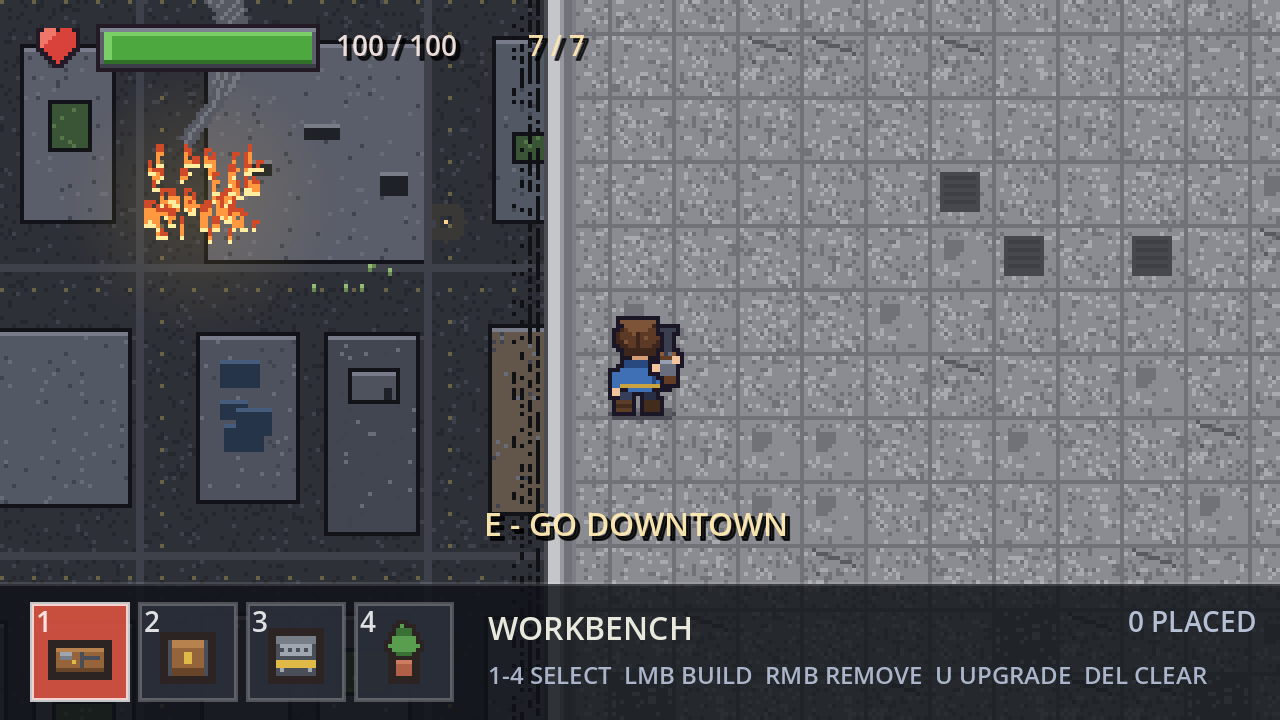
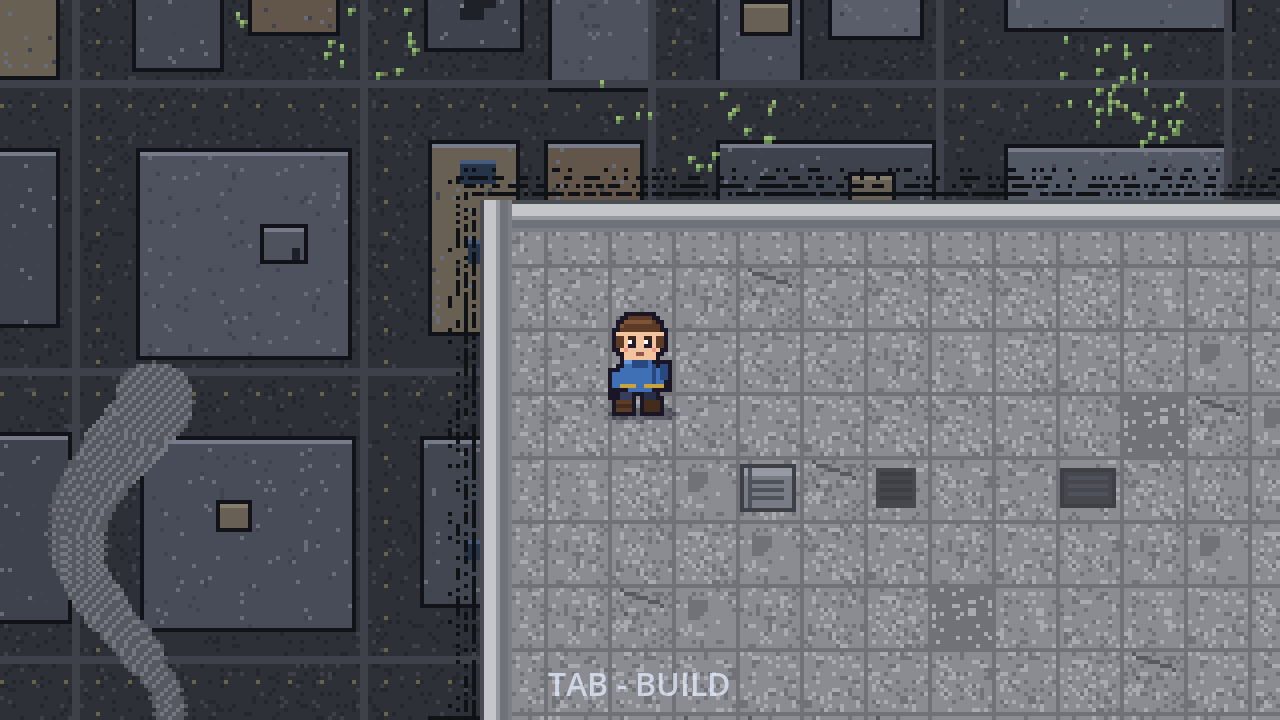
chore: 去掉基地边缘的 E - GO DOWNTOWN 提示（E 换场景仍然可用）

diff --git a/README.md b/README.md
@@ -570,16 +570,16 @@ after 3.5s-> 0 只（确认不再刷）
 
 ![平台边看城市](docs/screenshots/base_edge.png)
 
-- **进出**：走到平台边缘（离女儿墙 2 格内）会浮出提示 `E - GO DOWNTOWN`，按 **E** 去草地；
-  草地那边走到地图边缘会提示 `E - BACK TO BASE`，按 **E** 回基地。`B` 是不用走路的快捷键。
+- **进出**：走到平台边缘（离女儿墙 2 格内）按 **E** 去草地；草地那边走到地图边缘会提示
+  `E - BACK TO BASE`，按 **E** 回基地。`B` 是不用走路的快捷键。
+  **基地这边不再弹出 `E - GO DOWNTOWN` 提示**，走到边上就是安静地看城市。
 
 ### 建造 / 摆放家具
 
 - **基地里不能使用武器、手里也没有枪**：`player.set_armed(false)` 之后不能开枪、不能换弹、
   不跟鼠标瞄准，朝向跟着移动方向；身体换成**空手**那套帧（`character_sheet_unarmed.png`，
   干净的躯干、没有枪也没有浮空的手，肩侧和腰带上不会有多余的肉色像素），就是普通走路动画。
-- **基地 HUD 很干净**：没有血条、没有弹药（基地里不打架），只保留底部建造栏和边缘的
-  `E - GO DOWNTOWN` 提示。
+- **基地 HUD 很干净**：没有血条、没有弹药（基地里不打架），也没有边缘提示，只有底部建造栏。
 - **建造模式换姿势**：按 Tab 后角色换成**双手捧着一张报纸大小的图纸**（蓝白相间的竖条纹、
   深色描边、上下有卷边高光，双手扶在图纸左右两侧），`character_sheet_build.png` 四个方向
   的 idle + 走路都有；**向左 / 向右走时看到的是图纸的侧面——一条蓝白相间的竖线**；
